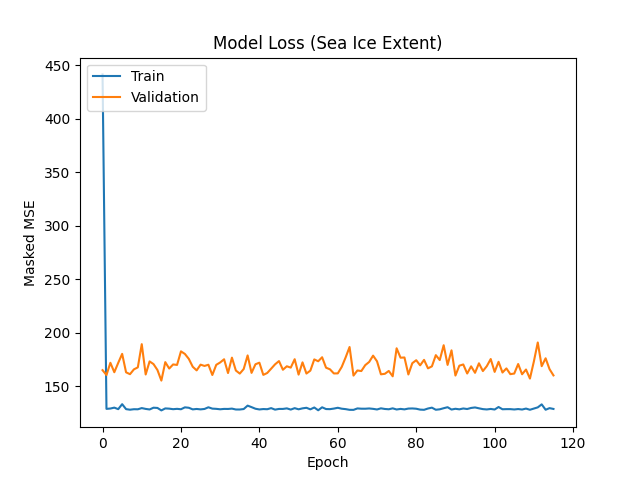
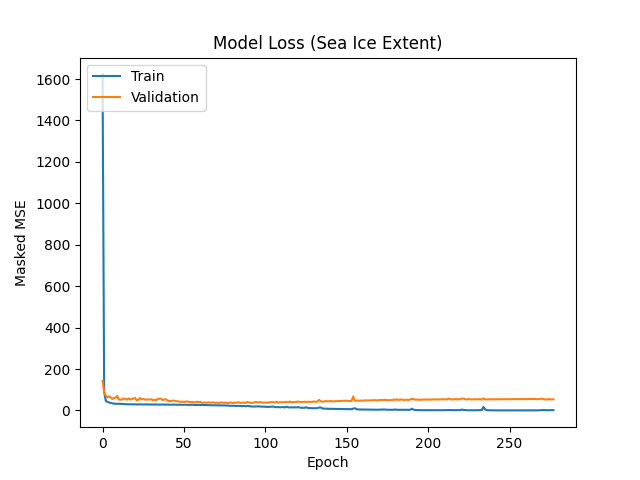
Get working transformer

diff --git a/2021-projects/team-1/modeling/convlstm/transform_convlstm_sequenced_filled.py b/2021-projects/team-1/modeling/convlstm/transform_convlstm_sequenced_filled.py
@@ -45,6 +45,12 @@ y_land_mask = y_land_mask.reshape(448, 304, 1)
 
 # define custom mse loss, which applies land mask to each output of the network.
 def custom_mse(y_true, y_pred):
+	print("y_true:", y_true)
+	print("y_pred:", y_pred)
+	#print("Max of y_pred: %.4f" % tf.reduce_max(y_pred))
+	#print("Min of y_pred: %.4f" % tf.reduce_min(y_pred))
+	#print("Mean of y_pred: %.4f" % tf.reduce_mean(y_pred))
+	#y_pred=tf.Print(y_pred, [y_pred], "print_yP-red")
 	y_pred_masked = tf.math.multiply(y_pred, y_land_mask)
 	y_true_masked = tf.math.multiply(y_true, y_land_mask)
 	squared_resids = tf.square(y_true_masked - y_pred_masked)
@@ -72,14 +78,14 @@ INPUT_SHAPE = (12, 448, 304, 10)
 NUM_CLASSES = 11
 
 # OPTIMIZER
-LEARNING_RATE = 1e-4
-WEIGHT_DECAY = 1e-5
+LEARNING_RATE = 0.01
+WEIGHT_DECAY = 1e-4
 
 # TRAINING
 EPOCHS = 10
 
 # TUBELET EMBEDDING
-PATCH_SIZE = (4, 28, 19)
+PATCH_SIZE = (1, 56, 38)
 NUM_PATCHES = (INPUT_SHAPE[0] // PATCH_SIZE[0]) ** 2
 print(INPUT_SHAPE[0] // PATCH_SIZE[0])
 print("NUM_PATCHES:", NUM_PATCHES)
@@ -91,7 +97,7 @@ LAYER_NORM_EPS = 1e-6
 # NUM_LAYERS = 8
 
 PROJECTION_DIM = 64
-NUM_HEADS = 8
+NUM_HEADS = 2
 NUM_LAYERS = 2
 
 class TubeletEmbedding(layers.Layer):
@@ -128,6 +134,20 @@ class PositionalEncoder(layers.Layer):
         encoded_tokens = encoded_tokens + encoded_positions
         return encoded_tokens
 
+def transformer_encoder(inputs, head_size, num_heads, ff_dim, dropout=0):
+    # Normalization and Attention
+    x = layers.LayerNormalization(epsilon=1e-6)(inputs)
+    x = layers.MultiHeadAttention(key_dim=head_size, num_heads=num_heads, dropout=dropout)(x, x)
+    x = layers.Dropout(dropout)(x)
+    res = x + inputs
+
+    # Feed Forward Part
+    x = layers.LayerNormalization(epsilon=1e-6)(res)
+    x = layers.Conv1D(filters=ff_dim, kernel_size=1, activation="relu")(x)
+    x = layers.Dropout(dropout)(x)
+    x = layers.Conv1D(filters=inputs.shape[-1], kernel_size=1)(x)
+    return x + res
+
 def create_branch(inputs,
 	tubelet_embedder,
     positional_encoder,
@@ -142,34 +162,42 @@ def create_branch(inputs,
     patches = tubelet_embedder(inputs)
     # Encode patches.
     encoded_patches = positional_encoder(patches)
-
-    # Create multiple layers of the Transformer block.
+    
+    # transformer encoder
+    dropout = 0.1
     for _ in range(transformer_layers):
-        # Layer normalization and MHSA
-        x1 = layers.LayerNormalization(epsilon=1e-6)(encoded_patches)
-        attention_output = layers.MultiHeadAttention(
-            num_heads=num_heads, key_dim=embed_dim // num_heads, dropout=0.1
-        )(x1, x1)
+        x = transformer_encoder(encoded_patches, 256, 4, 64, 0.1)
+    x = layers.GlobalAveragePooling1D(data_format="channels_first")(x)
+    return x
 
-        # Skip connection
-        x2 = layers.Add()([attention_output, encoded_patches])
+    ## Create multiple layers of the Transformer block.
+    #for _ in range(transformer_layers):
+    #    # Layer normalization and MHSA
+    #    x1 = layers.LayerNormalization(epsilon=1e-3)(encoded_patches)
+    #    attention_output = layers.MultiHeadAttention(
+    #        num_heads=num_heads, key_dim=embed_dim // num_heads, dropout=0.1
+    #    )(x1, x1)
 
-        # Layer Normalization and MLP
-        x3 = layers.LayerNormalization(epsilon=1e-6)(x2)
-        x3 = keras.Sequential(
-            [
-                layers.Dense(units=embed_dim * 4, activation=tf.nn.gelu),
-                layers.Dense(units=embed_dim, activation=tf.nn.gelu),
-            ]
-        )(x3)
+    #    # Skip connection
+    #    x2 = layers.Add()([attention_output, encoded_patches])
 
-        # Skip connection
-        encoded_patches = layers.Add()([x3, x2])
+    #    # Layer Normalization and MLP
+    #    x3 = layers.LayerNormalization(epsilon=1e-3)(x2)
+    #    x3 = keras.Sequential(
+    #        [
+    #            layers.Dense(units=embed_dim * 4, activation=tf.nn.relu),
+    #            layers.Dense(units=embed_dim, activation=tf.nn.relu),
+    #        ]
+    #    )(x3)
 
-    # Layer normalization and Global average pooling.
-    representation = layers.LayerNormalization(epsilon=layer_norm_eps)(encoded_patches)
-    representation = layers.GlobalAvgPool1D()(representation)
-    return representation
+    #   # Skip connection
+    #    encoded_patches = layers.Add()([x3, x2])
+
+    ## Layer normalization and Global average pooling.
+    ##representation = layers.LayerNormalization(epsilon=layer_norm_eps)(encoded_patches)
+    #representation = layers.LayerNormalization(epsilon=1e-3)(encoded_patches)
+    #representation = layers.GlobalAvgPool1D()(representation)
+    #return representation
 
 def create_transformer(
     tubelet_embedder,
@@ -204,6 +232,8 @@ def create_transformer(
 	# compile model
 	# optimized with Adam, image output uses custom loss, and extent output uses mse loss
 	# RMSE for both outputs is measured
+    #optimizer = keras.optimizers.Adam(lr=0.0001)
+    #model.run_eagerly = True
     model.compile(optimizer="adamax", 
 		loss= custom_mse,
 		metrics= [keras.metrics.RootMeanSquaredError()])		
@@ -279,21 +309,23 @@ def exp_decay(epoch, lr):
 learning_rate = keras.callbacks.LearningRateScheduler(exp_decay)
 '''
 
-early_stopping = keras.callbacks.EarlyStopping(patience=100, restore_best_weights=True)
+early_stopping = keras.callbacks.EarlyStopping(patience=200, restore_best_weights=True)
 
 # convLSTM_image = create_convLSTM_image()
 convLSTM_image = transformer_model
 print(convLSTM_image.summary())
 history2 = convLSTM_image.fit(x=X_train, y=y_train,
-	batch_size=4,
-	epochs=1000,
+	batch_size=8,
+	epochs=500,
 	validation_split = .2,
 	#sample_weight=sample_weight,
 	callbacks=[early_stopping])
 convLSTM_image.save("transform_convLSTM_image")
 
 # image output
-image_train_preds = convLSTM_image.predict(X_train, batch_size=4)
+image_train_preds = convLSTM_image.predict(X_train, batch_size=8)
+print("image_train_preds:", image_train_preds)
+print("y_train:", y_train)
 #image_train_mse, image_train_rmse = convLSTM_image.evaluate(X_train, y_train)
 
 #image_train_preds = (image_train_preds_norm * y_train.std()) + y_train.mean()
